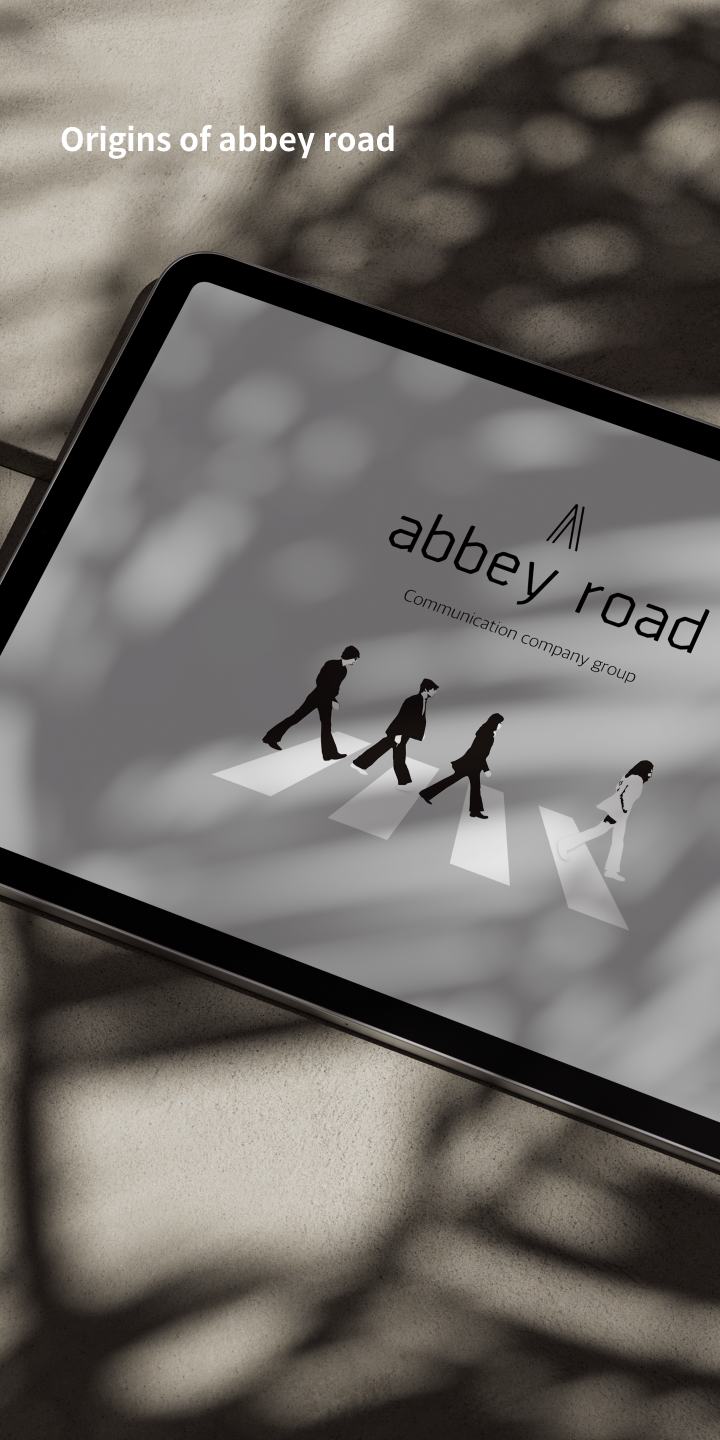
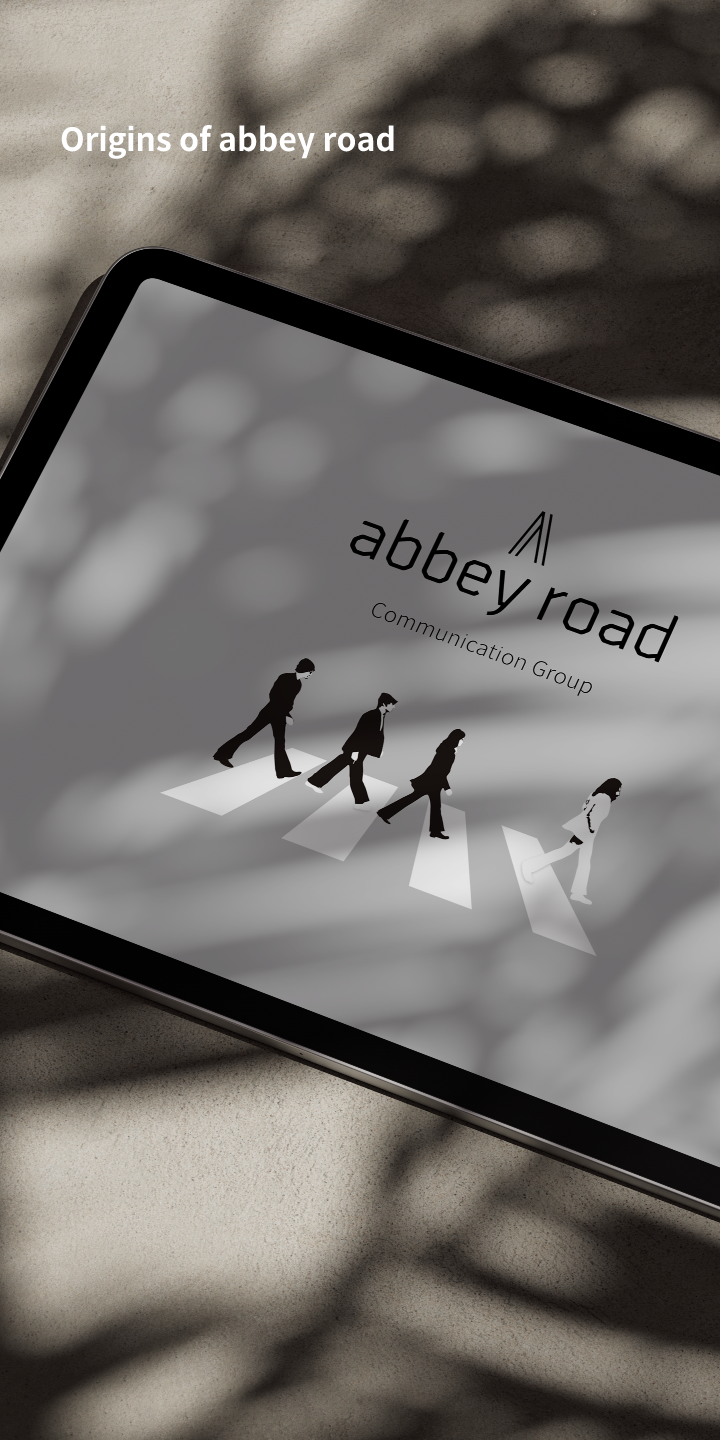
로고 소문자로 전체 교체, about 페이지 수정 , 서브페이지 이미지 교체 및 수정 작업

diff --git a/src/html/pages/about-studio.html b/src/html/pages/about-studio.html
@@ -4,7 +4,7 @@
   <meta charset="utf-8">
   <meta http-equiv="X-UA-Compatible" content="IE=edge">
   <meta name="viewport" content="width=device-width, initial-scale=1">
-  <title>하는 일 | ABBEYROAD</title>
+  <title>하는 일 | abbeyroad</title>
   <meta content="The about page." name="description">
   @@include('../include/head.html')
   <link rel="stylesheet" href="https://cdn.jsdelivr.net/npm/swiper@9/swiper-bundle.min.css" />
@@ -26,11 +26,12 @@
       <div data-scroll-content> -->
       <div class="title font-ssp">
         <h2>
-            <span>Before making</span>
-            <span>there is</span>
-            <span>finding</span>
-            <span>this is</span>
+            <span>We will </span>
+            <span>find a way. </span>
+            <span>We always </span>
+            <span>have.</span>
             <span class="nxgram rellax" data-rellax-speed="5" data-rellax-xs-speed="1" data-rellax-mobile-speed="1" data-rellax-tablet-speed="4" data-rellax-desktop-speed="5"><img src="../img/about/abbeyroad.png" alt="abbey road"></span>
+            <span class="nxgram2 rellax" data-rellax-speed="1" data-rellax-xs-speed="1" data-rellax-mobile-speed="1" data-rellax-tablet-speed="1" data-rellax-desktop-speed="1"><img src="../img/about/about-interstellar.png" alt="abbey road"></span>
         </h2>
       </div>
 
@@ -316,15 +317,17 @@
           <!-- <img src="../img/about/about-brand3.png" alt="abbey road"> -->
           <img src="../img/about/about-brand4.png" alt="abbey road" class="w50 reveal">
           <img src="../img/about/about-brand5.png" alt="abbey road" class="w50 reveal">
-          <img src="../img/about/about-brand6.png" alt="abbey road" class=" reveal">
+          <!-- <img src="../img/about/about-brand6.png" alt="abbey road" class=" reveal"> -->
+          <picture class="next-navigation w100 t-center reveal" style="margin: -2px 0">
+            <source
+              srcset="../img/about/about-brand6-m.png"
+              media="(max-width: 850px)"
+            >
+            <img src="../img/about/about-brand6.png" alt="abbey road">
+          </picture>
           <img src="../img/about/about-brand7.png" alt="abbey road" class=" reveal">
         </div>
       </div>
-
-
-
-
-      
       
       <section class="scroll-content">
           <div class="scroll-graphic">

diff --git a/src/css/sub.css b/src/css/sub.css
@@ -69,8 +69,8 @@ html {
   flex-direction: column;
 }
 
-.about .title h2 span:nth-child(2) {
-  width: 500px;  transform: translateX(200px);  
+.about .title h2 span:nth-child(2) ,.about .title h2 span:nth-child(4) {
+  padding-left: 160px;
 }
 
 .about .nxgram {
@@ -79,7 +79,13 @@ html {
   bottom: -400px;
 }
 
-.about .nxgram img{
+.about .nxgram2 {
+  position: absolute;
+  left: 950px;
+  top: 300px;
+}
+
+.about .nxgram img, .about .nxgram2 img{
   max-width: 100%
 }
 
@@ -405,9 +411,14 @@ html {
     left: 390px;  
   }
 
-  .about .title h2 span:nth-child(2) {
-    width: 400px;
-    transform: translateX(120px);  
+  .about .nxgram2 {
+    top: 198px;
+    left: 630px;
+    max-width: 30%;
+  }
+
+  .about .title h2 span:nth-child(2) ,.about .title h2 span:nth-child(4) {
+    padding-left: 100px;
   }
 
   .about-slide .about-slide-inner .swiper-pagination{
@@ -465,13 +476,20 @@ html {
     left: 270px;
     bottom: -190px;  
   }
+
+  .about .nxgram2 {
+    top: 93px;
+    left: 60%;
+    max-width: 36%;
+  }
+
   .about .rolltext {
     padding-left: 40px;
     font-size: 35px;
   }
-  .about .title h2 span:nth-child(2) {
-    width: 290px;
-    transform: translateX(80px);
+  
+  .about .title h2 span:nth-child(2) ,.about .title h2 span:nth-child(4) {
+    padding-left: 70px;
   }
 
   .about-slide .about-slide-inner .type1 .t-wrap {
@@ -572,22 +590,29 @@ html {
   }
   .about .title {
     width: auto;
-    margin: 0px 20px 200px;
+    margin: 0px 20px 70vw;
     font-size: 14.1vw;
   }
 
   .about .nxgram {
     left: auto;
     right: 0;
-    bottom: -160px;
+    bottom: -65vw;
   }
+  
+  .about .nxgram2 {
+    left: 21%;
+    top: 84vw;
+    width: 58%;
+  }
+
   .about .rolltext {
     width: 200px;
     padding-left: 20px;
     font-size: 25px;
   }
-  .about .title h2 span:nth-child(2) {
-    width: 55%; transform: translateX(60px);
+  .about .title h2 span:nth-child(2) ,.about .title h2 span:nth-child(4) {
+    padding-left: 15vw;
   }
   
   .about-slide .about-slide-inner {

diff --git a/src/css/common.css b/src/css/common.css
@@ -277,15 +277,15 @@ html.loaded:before, html.loaded:after {
 .footer {
   position: relative;
   display: flex; 
-  align-items: flex-start;
   height: 100vh;
   background: #000 url("../img/work/display/copybg_pc.png") 50% top/90% auto no-repeat;
   background-attachment: fixed;
   z-index: 4;
+  align-items: flex-end;
+  padding-bottom: 4%;
 }
 
 .footer-inner {
-  padding-top: 30%;
   margin: 0 auto;
   display: flex; 
   width: 100%;
@@ -441,7 +441,7 @@ html.loaded:before, html.loaded:after {
     line-height: 35px;
   }
   .footer {height: 600px; background: #000 url(../img/work/display/copybg_pc.png) 50% 5%/100% auto no-repeat; }
-  .footer-inner { padding-top: 42%;  }
+  .footer-inner { padding-bottom: 5%;  }
   .footer-inner .footer-title {  font-size: 35px; line-height: 1.3; }
   .footer-inner .footer-title span {  font-size: 20px; }
   .footer-inner .footer-copy, .footer-inner a { font-size: 14px; }

diff --git a/src/html/index.html b/src/html/index.html
@@ -4,7 +4,7 @@
     <meta charset="UTF-8">
     <meta http-equiv="X-UA-Compatible" content="IE=edge">
     <meta name="viewport" content="width=device-width, initial-scale=1">
-    <title>ABBEYROAD</title>
+    <title>abbeyroad</title>
     <meta content="The main page." name="description">
     <!-- Styles-->
     <link rel="stylesheet" href="css/reset.css">
@@ -84,7 +84,10 @@
     <div class="po-screen" id="fullpage">  
       <div class="section rl">
         <div class="po-main-details ">
-          <div class="po-main-title">ABBEYROAD<br/>EXPERIENCE</div>
+          <!-- <div class="po-main-title">ABBEYROAD<br/>EXPERIENCE</div>-->
+          <div class="po-main-title">
+            <img src="img/about/abbeyroad.png" alt="abbeyroad">
+          </div>
           <div class="po-main-title2">SINCE 2013</div>
           <div class="scroll-downs">
               <div class="mousey">

diff --git a/src/html/pages/project-shinhan.html b/src/html/pages/project-shinhan.html
@@ -4,7 +4,7 @@
     <meta charset="utf-8" />
     <meta http-equiv="X-UA-Compatible" content="IE=edge" />
     <meta name="viewport" content="width=device-width, initial-scale=1" />
-    <title>신한 Alpha MyData | ABBEYROAD</title>
+    <title>신한 Alpha MyData | abbeyroad</title>
     <meta content="The portfolio page." name="description" />
     @@include('../include/head.html')
 
@@ -105,7 +105,7 @@
             </picture>
             
             <figure class="project-video mb220 mt220 v-cover">
-              <video autoplay loop muted>
+              <video autoplay loop muted playsinline>
                 <source src="../img/work/detail/01.mp4" type="video/mp4">
                 <source src="../img/work/detail/01.webm" type="video/webm">
                 Your browser does not support the video tag.

diff --git a/src/html/pages/portfolio-filters.html b/src/html/pages/portfolio-filters.html
@@ -4,7 +4,7 @@
     <meta charset="utf-8">
     <meta http-equiv="X-UA-Compatible" content="IE=edge">
     <meta name="viewport" content="width=device-width, initial-scale=1">
-    <title>프로젝트 | ABBEYROAD</title>
+    <title>프로젝트 | abbeyroad</title>
     <meta content="The portfolio page." name="description">
     @@include('../include/head.html')
   </head>

diff --git a/src/html/pages/contact.html b/src/html/pages/contact.html
@@ -4,7 +4,7 @@
     <meta charset="utf-8">
     <meta http-equiv="X-UA-Compatible" content="IE=edge">
     <meta name="viewport" content="width=device-width, initial-scale=1">
-    <title>문의하기 | ABBEYROAD</title>
+    <title>문의하기 | abbeyroad</title>
     <meta content="The contact page." name="description">
     @@include('../include/head.html')
   </head>

diff --git a/src/html/pages/project-kbstar.html b/src/html/pages/project-kbstar.html
@@ -4,7 +4,7 @@
     <meta charset="utf-8" />
     <meta http-equiv="X-UA-Compatible" content="IE=edge" />
     <meta name="viewport" content="width=device-width, initial-scale=1" />
-    <title>KB스타 | ABBEYROAD</title>
+    <title>KB스타 | abbeyroad</title>
     <meta content="The portfolio page." name="description" />
     @@include('../include/head.html')
 

diff --git a/src/html/pages/project-144cake.html b/src/html/pages/project-144cake.html
@@ -4,7 +4,7 @@
     <meta charset="utf-8">
     <meta http-equiv="X-UA-Compatible" content="IE=edge">
     <meta name="viewport" content="width=device-width, initial-scale=1">
-    <title>144Cake | ABBEYROAD</title>
+    <title>144Cake | abbeyroad</title>
     <meta content="The portfolio page." name="description">
     @@include('../include/head.html')
     

diff --git a/src/html/pages/project-mobillink.html b/src/html/pages/project-mobillink.html
@@ -4,7 +4,7 @@
     <meta charset="utf-8">
     <meta http-equiv="X-UA-Compatible" content="IE=edge">
     <meta name="viewport" content="width=device-width, initial-scale=1">
-    <title>Mobillink | ABBEYROAD</title>
+    <title>Mobillink | abbeyroad</title>
     <meta content="The portfolio page." name="description">
     @@include('../include/head.html')
 

diff --git a/src/html/pages/project-test.html b/src/html/pages/project-test.html
@@ -4,7 +4,7 @@
     <meta charset="utf-8">
     <meta http-equiv="X-UA-Compatible" content="IE=edge">
     <meta name="viewport" content="width=device-width, initial-scale=1">
-    <title>144Cake | ABBEYROAD</title>
+    <title>144Cake | abbeyroad</title>
     <meta content="The portfolio page." name="description">
     @@include('../include/head.html')
     

diff --git a/src/html/pages/project-6nails.html b/src/html/pages/project-6nails.html
@@ -4,7 +4,7 @@
     <meta charset="utf-8">
     <meta http-equiv="X-UA-Compatible" content="IE=edge">
     <meta name="viewport" content="width=device-width, initial-scale=1">
-    <title>6 Nails | ABBEYROAD</title>
+    <title>6 Nails | abbeyroad</title>
     <meta content="The portfolio page." name="description">
     @@include('../include/head.html')
 
